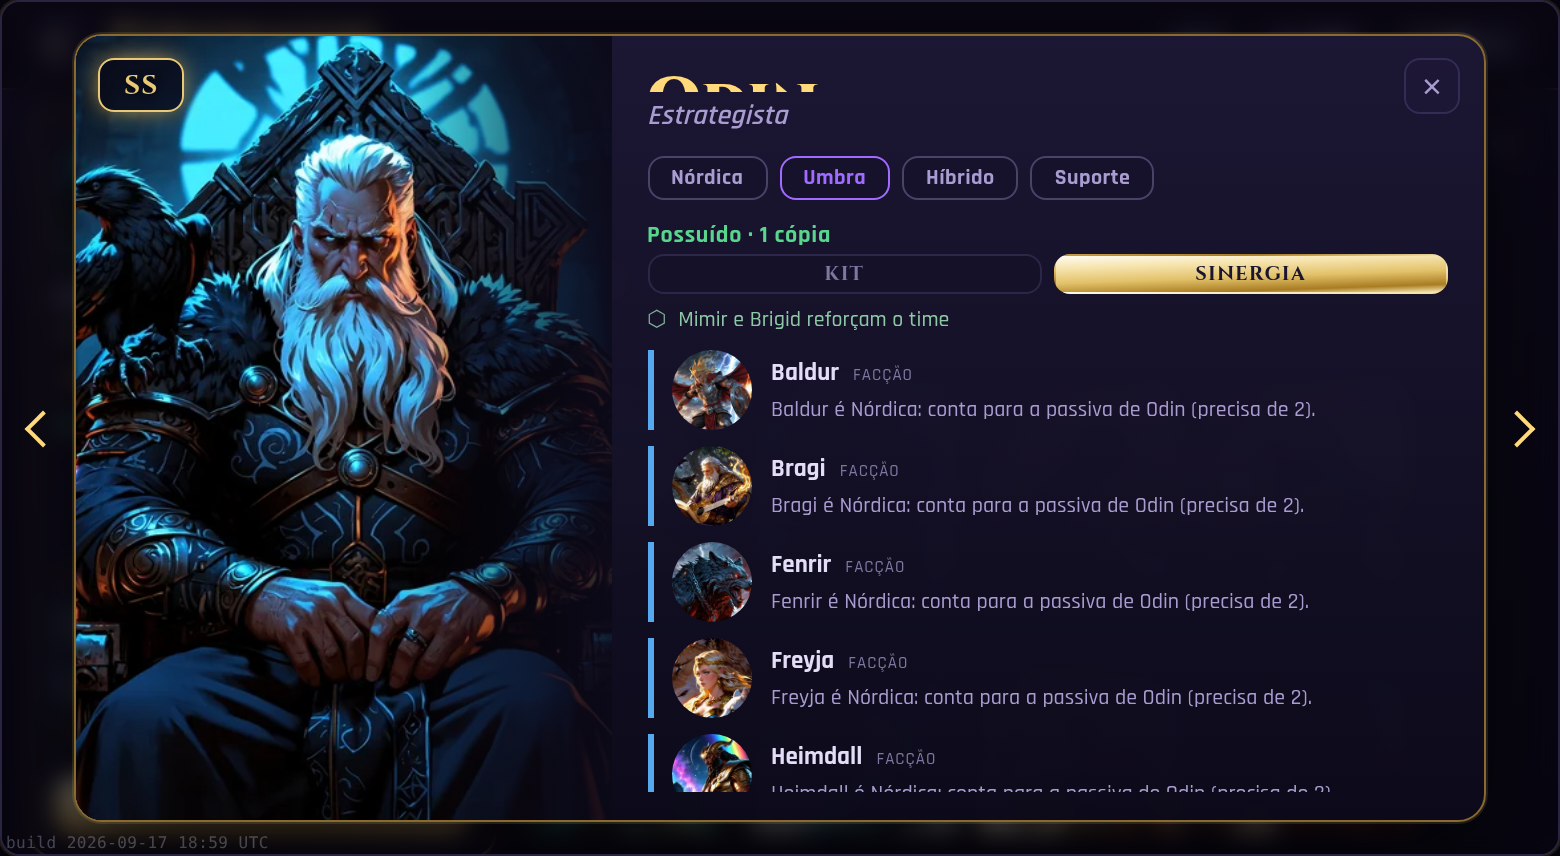
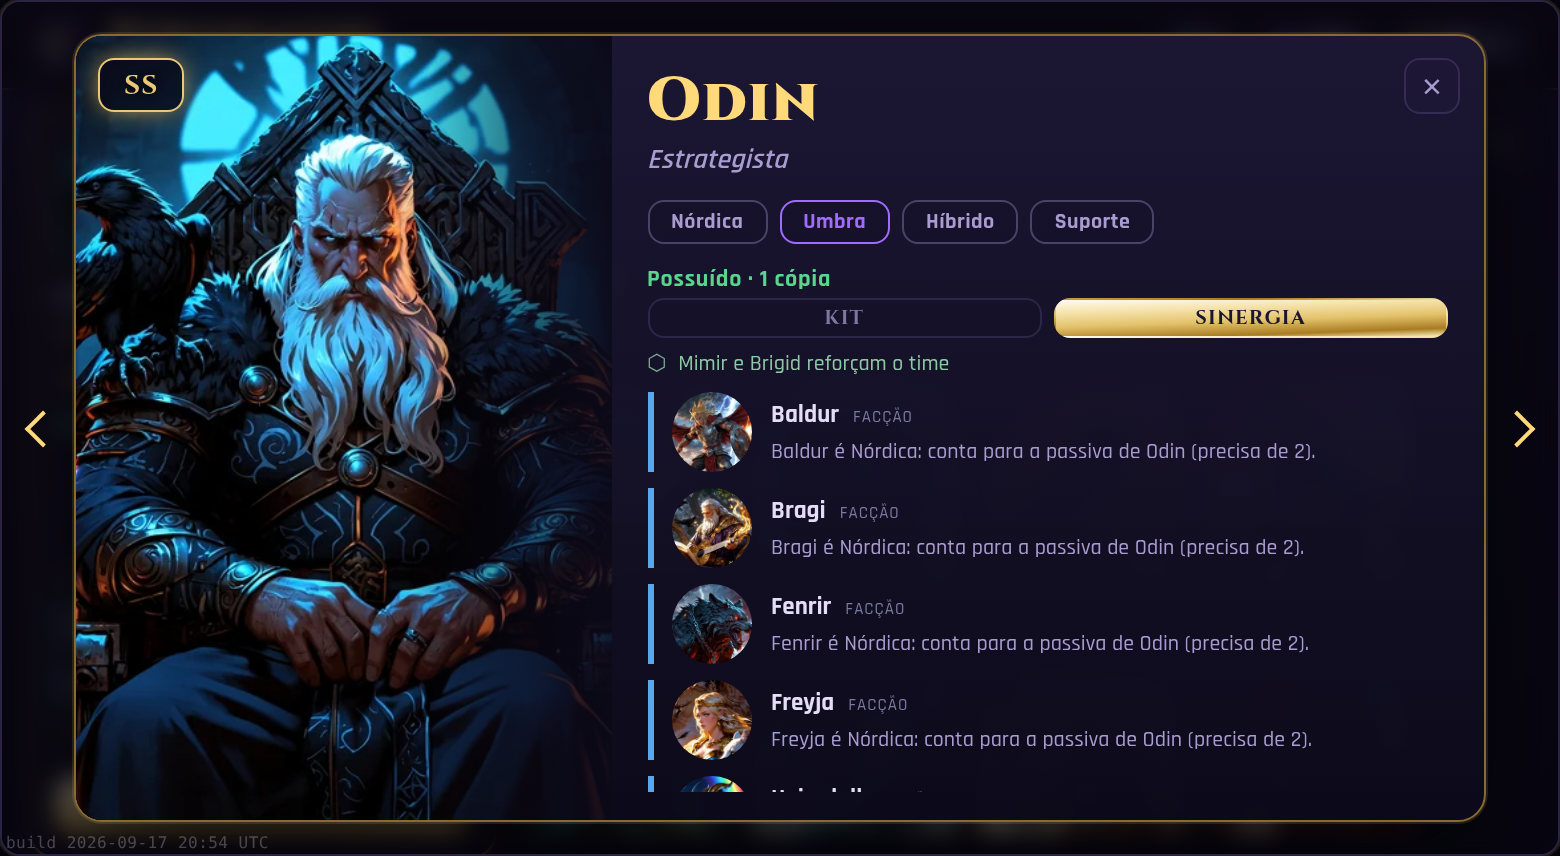
§294-ajuste: título da sobreposição não corta mais no topo + anti-sinergia registrada como conteúdo deliberado
1) O corte de ~4px no topo do titulo (.col2ov__nome, Cinzel 900) era
pre-existente do §288: overflow:hidden + line-height 1.02 cortava a
capitular alta por cima. O scrollHeight nao pega (so mede corte por
baixo) -> medido com a tinta real (Range). Na sobreposicao a caixa e
larga (0/100 nomes colidem com o x, medido nas duas larguras), entao a
correcao e overflow:visible: some o corte sem crescer a caixa nem
empurrar a barra de modos/caixa de detalhe (§292 segue 0/400, caixa 117
> chips 106). Guarda babá: a tinta do titulo fica dentro do cartao e
antes do x nos 100. (Tentei antes subir line-height compensando padding
-- passava na metrica mas a captura ainda cortava; a captura e o
veredito, §281.)

2) Registra no DECISOES que a ANTI-SINERGIA e conteudo DELIBERADO, nao
efeito colateral: o mapa diz com quem NAO levar (Ah Puch mostra
Tsukuyomi +8 e Amaterasu -5 lado a lado; o FASE_MOD e simetrico).
Encaixa na tese "todo valor e publico". A familia fase-anti (prioridade
8, com aviso) fica no dado e na tela; nenhuma sessao futura deve
"limpar" os pares negativos achando que sao ruido.

Guarda de titulo em colecao_sinergia.test.js (Chromium 780 E 951).
Suite + build verdes.

Claude-Session: https://claude.ai/code/session_01RXkcJMEMadTZtCymgt9Yf6

Changed region(s): [[0.4, 0.1822, 0.9538, 0.9416], [0.4, 0.0911, 0.5231, 0.1519]]

diff --git a/src/shell.html b/src/shell.html
@@ -1521,7 +1521,7 @@ body{font-family:'Rajdhani',sans-serif;color:var(--ink);display:grid;place-items
 .col2ov__falta{position:absolute;left:10px;bottom:10px;z-index:1;font-family:'Cinzel',serif;font-weight:700;
   font-size:10px;letter-spacing:.08em;color:#cbb98a;background:rgba(8,6,20,.82);border:1px solid #39335a;border-radius:7px;padding:3px 8px}
 /* conteúdo à direita */
-.col2ov__conteudo{flex:1 1 auto;min-width:0;display:flex;flex-direction:column;padding:16px 18px 14px;position:relative}
+.col2ov__conteudo{flex:1 1 auto;min-width:0;display:flex;flex-direction:column;padding:16px 18px 14px;position:relative}   /* §294-ajuste: padding-top 16→11 compensa o line-height do nome (o bloco abaixo não desce; a caixa de detalhe §292 fica igual) */
 .col2ov__x{position:absolute;top:11px;right:12px;z-index:2;width:28px;height:28px;cursor:pointer;display:grid;place-items:center;
   background:rgba(30,24,54,.7);border:1px solid #342c54;border-radius:8px;color:var(--ink-dim);font-size:17px;line-height:1}
 .col2ov__x:active{transform:translateY(1px)}
@@ -1533,7 +1533,7 @@ body{font-family:'Rajdhani',sans-serif;color:var(--ink);display:grid;place-items
   background:rgba(10,8,22,.72);box-shadow:0 0 13px -2px currentColor, 0 2px 7px rgba(0,0,0,.55);
   text-shadow:0 1px 3px rgba(0,0,0,.85);backdrop-filter:blur(2px);-webkit-backdrop-filter:blur(2px)}
 .col2ov__nome{font-family:'Cinzel',serif;font-weight:900;font-size:30px;letter-spacing:.03em;color:var(--gold-text);
-  margin:2px 82px 0 0;line-height:1.02;overflow:hidden;text-overflow:ellipsis;white-space:nowrap}
+  margin:2px 82px 0 0;line-height:1.05;white-space:nowrap;overflow:visible}   /* §294-ajuste: era overflow:hidden e a capitular do Cinzel 900 estourava a caixa por cima (corte ~4px que o scrollHeight não pega). Aqui a caixa é larga (0/100 colidem com o ×, medido) → overflow:visible some o corte sem crescer nada nem empurrar a caixa de detalhe (§292) */
 .col2ov__arq{margin:3px 0 0;font-weight:600;font-style:italic;font-size:14px;color:var(--ink-dim)}
 .col2ov__ident{display:flex;flex-wrap:wrap;gap:6px;margin:11px 0 0}
 .col2ov__tag{font-weight:700;font-size:11px;letter-spacing:.02em;padding:3px 11px;border-radius:8px;

diff --git a/tests/colecao_sinergia.test.js b/tests/colecao_sinergia.test.js
@@ -107,6 +107,23 @@ const ok = (c, m) => { if (!c) { falhas++; console.log('  XX ' + m); } };
     ok(abre.linhas === abre.total, `a lista completa devia ter os ${abre.total} parceiros do odin, tem ${abre.linhas}`);
     await page.evaluate(() => { const x = document.querySelector('#col2ovx'); if (x) x.click(); });
 
+    // (§294-ajuste) o TÍTULO da sobreposição não corta no topo (o Cinzel 900 estourava a caixa; overflow:visible) e
+    // não colide com o × — nos 100. A métrica é a TINTA (Range), não scrollHeight (que só pega corte embaixo).
+    const titulo = await page.evaluate(() => {
+      const bad = [];
+      for (const e of ROSTER) {
+        colAbrirVer(e.key);
+        const nome = document.querySelector('.col2ov__nome'), card = document.querySelector('.col2ov__card'), x = document.querySelector('#col2ovx');
+        const rg = document.createRange(); rg.selectNodeContents(nome); const ink = rg.getBoundingClientRect();
+        const cr = card.getBoundingClientRect(), lim = x ? x.getBoundingClientRect().left : cr.right;
+        if (ink.top < cr.top + 0.5) bad.push(e.key + ' topo cortado ' + Math.round(cr.top - ink.top));
+        if (ink.right > lim - 1) bad.push(e.key + ' colide com o × ' + Math.round(ink.right - lim));
+        colFecharVer();
+      }
+      return bad;
+    });
+    ok(titulo.length === 0, `${titulo.length}/100 títulos cortam/colidem na sobreposição` + (titulo.length ? ' → ' + titulo.slice(0, 6).join(' · ') : ''));
+
     // (5)(6) NENHUM nome/mecânica corta no painel E o botão "Ver detalhes" fica alcançável (§210), nos 100 deuses
     const varredura = await page.evaluate(() => {
       const bad = []; let piorVer = 0, piorVerK = '';

diff --git a/ESTADO.md b/ESTADO.md
@@ -12,7 +12,11 @@ O §293 mediu e o dono decidiu; aqui construiu-se. **Painel lateral (sob a maest
 
 **Encaixe (medido, piso 428):** painel fixo 233×373; fecha no pior deus (**hades 426/428**, 2px folga) com linhas apertadas (retrato 26/nome 11/mec 9.5/gaps 3–4), **`.col2p__nome`/`__arq` travados `flex:0 0 auto`** (senão o flex os comprimia — "ODIN" saía espremido), maestria `margin-top` 10→7. **Guarda `tests/colecao_sinergia.test.js` (Chromium 780 E 951):** máx 2 + cabeçalho · prioridade (laço antes de anti no mnevis) · "+N" abre a lista completa no modo SINERGIA (15/15 do odin) · solista com a linha · **0/100 cortam** · **"Ver detalhes" alcançável (§210) nos 100**. Dado: 222 pares, aura=faixa (Mímir+6/Brigid+5), 37 suportes, 22 solistas.
 
-**Arquivos:** `tools/gerar_sinergia.js` (curto+motivo+fichas+auraDoadores+suporte), `data/sinergia.json`, `tools/build.js` (injeta+valida SINERGIA), `src/ui/home.js` (painel + modo da sobreposição), `src/shell.html` (CSS col2s/modos/sinlista + travas), `tests/colecao_sinergia.test.js`, `package.json`, `docs/capturas-294/`. Ver DECISOES §294. Suíte + build verdes.
+**★ §294-ajuste — título da sobreposição cortava no topo (pré-§288):** o `.col2ov__nome` (Cinzel 900) tinha `overflow:hidden` + `line-height:1.02` → a capitular estourava por cima e cortava (~4px). `scrollHeight` não pega (só corte por baixo) — medido com a **tinta real (Range)**. Na sobreposição a caixa é larga (**0/100 colidem com o ×**), então o conserto é `overflow:visible` no título: some o corte sem crescer nada (§292 segue 0/400, caixa 117 > chips 106). Guarda: a tinta fica dentro do cartão e antes do × nos 100.
+
+**★ ACHADO DE DESENHO (registrado no DECISOES): a ANTI-SINERGIA é conteúdo DELIBERADO, não ruído.** Ninguém pediu; é o resultado mais valioso do §294. O mapa diz **com quem NÃO levar** — o Ah Puch (Umbra) mostra Tsukuyomi (+8) e ⚠ Amaterasu (−5) lado a lado (FASE_MOD é simétrico, §96). Encaixa na tese "todo valor é público" (§286). A família `fase-anti` (prioridade 8, com ⚠) fica no dado e na tela. **Nenhuma sessão futura deve "limpar" os pares negativos** achando que são efeito colateral do gerador — são informação de montagem tão legítima quanto os positivos.
+
+**Arquivos:** `tools/gerar_sinergia.js` (curto+motivo+fichas+auraDoadores+suporte), `data/sinergia.json`, `tools/build.js` (injeta+valida SINERGIA), `src/ui/home.js` (painel + modo da sobreposição), `src/shell.html` (CSS col2s/modos/sinlista + travas + título overflow:visible), `tests/colecao_sinergia.test.js`, `package.json`, `docs/capturas-294/`. Ver DECISOES §294. Suíte + build verdes.
 
 ## ★ SINERGIA §293 — MAPA entre os 100 deuses, DERIVADO DO FX (medição + proposta; a TELA é decisão do dono, NÃO construída).
 

diff --git a/DECISOES.md b/DECISOES.md
@@ -48,6 +48,31 @@ os parceiros; solista mostra a linha; **0/100 nomes/mecânicas cortam**; **"Ver 
 injeta `SINERGIA` com guarda de integridade (toda ficha/parceiro é deus real; todo par tem curto+motivo). Kit novo no
 futuro roda o tool, a tela só lê.
 
+### §294-ajuste — o TÍTULO da sobreposição cortava no topo (pré-§288), agora que a lista de sinergia o põe em evidência
+
+O `.col2ov__nome` (Cinzel 900, 30px) tinha `line-height:1.02` + `overflow:hidden`: a capitular alta do Cinzel
+estourava a caixa por CIMA e o `overflow:hidden` a cortava (~4px). O `scrollHeight` NÃO pega isso (só mede corte por
+BAIXO) — o §294 mediu com a **tinta real (Range.getBoundingClientRect)**, que é o único jeito de ver corte no topo.
+Como na sobreposição a caixa é LARGA (mediu-se: **0/100 nomes colidem com o × a 780 nem a 951** — nenhum precisa de
+reticência ali, ao contrário do painel), o conserto é `overflow:hidden`→**`overflow:visible`** no título: some o corte
+sem crescer a caixa, sem empurrar a barra de modos nem a caixa de detalhe (§292 segue **0/400 · caixa 117 > chips 106**).
+Guarda babá (`colecao_sinergia.test.js`): a tinta do título fica dentro do cartão e antes do × nos 100. (Tentei antes
+subir o `line-height` compensando o padding — funcionava na métrica mas a captura ainda cortava, porque o Range
+subestima a tinta do Cinzel; a captura é o veredito, §281.)
+
+### ★ ACHADO DE DESENHO — a ANTI-SINERGIA é conteúdo DELIBERADO, não efeito colateral (não "limpar" os pares negativos)
+
+Ninguém pediu, e é o resultado mais valioso do §294: o mapa diz **com quem NÃO levar**. A ficha do Ah Puch (Umbra)
+mostra, lado a lado, **Tsukuyomi — Noite: +8 aos seus Umbra** (sinergia) e **⚠ Amaterasu — Dia: −5 nos seus Umbra**
+(anti-sinergia). O FASE_MOD (§96) é simétrico: a Dia que ajuda o Aurora PUNE o Umbra. Quase nenhum jogo diz ao jogador
+quais combinações o ENFRAQUECEM — e isto encaixa exato na tese do projeto de que **todo valor é público** (o §286: a
+ficha não esconde a conta). Por isso a família `fase-anti` existe no dado e a tela a mostra (com ⚠, prioridade 8: sai
+do topo do painel mas aparece quando é o que o deus tem, e sempre na lista completa). **Registro para o futuro:** os
+pares negativos NÃO são ruído a ser filtrado — são informação de montagem de time tão legítima quanto os positivos.
+Nenhuma sessão futura deve "limpar" a `fase-anti` (nem outros antis que venham) achando que são efeito colateral do
+gerador. Se um dia houver anti-sinergia por outra mecânica (um debuff de elemento, um contador que atrapalha), ela
+entra pela mesma porta.
+
 ---
 
 ## §293 — MAPA DE SINERGIA entre os 100 deuses, DERIVADO DO FX (medição + proposta; a tela é decisão do dono).
